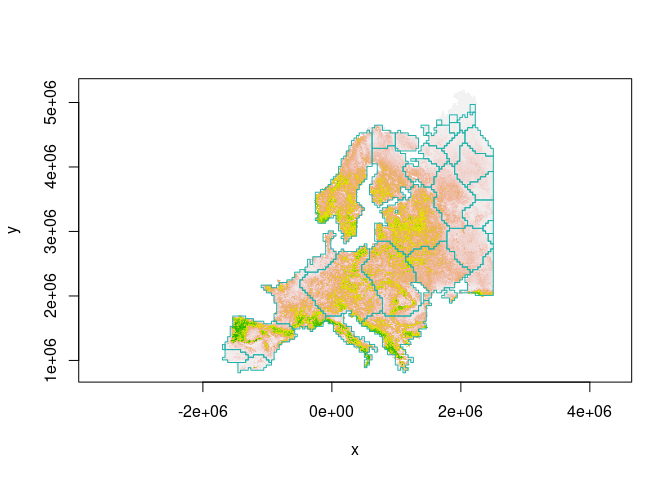
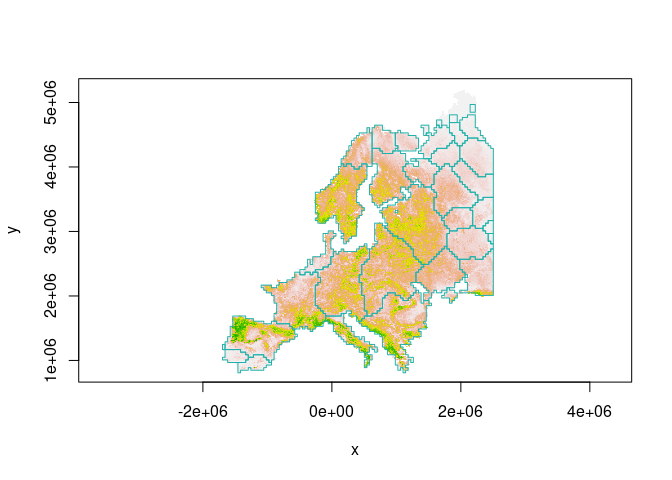
version 1.0.2

diff --git a/README.md b/README.md
@@ -29,7 +29,6 @@ lands:
 library(sf)
 library(raster)
 library(habCluster)
-library(dplyr)
 ```
 
 Read in habitat suitability index (HSI) data of wolf in Europe. The HSI
@@ -73,8 +72,8 @@ Or, we can discard small patches before plotting:
 
 ``` r
 image(wolf, col = terrain.colors(100,rev = T), asp = 1)
-boundary$area = st_area(boundary)%>%as.numeric
-boundary = boundary %>% filter(area > 40000*40000)
+boundary$area = as.numeric(st_area(boundary))
+boundary = boundary[boundary$area > 40000*40000,]
 plot( boundary$geometry, add=TRUE, asp=1, border = "lightseagreen")
 ```
 
@@ -97,5 +96,6 @@ clst = cluster(wolf, method = cluster_leiden, cellsize = 40000, rp = 0.02, silen
 
 ## How to Cite
 
-Zhang, C., Q. Dai\*, et al, (in review). Identifying Geographical
-Boundary among Intraspecific Units Using Community Detection Algorithm.
+Zhang,C., J. Li, B. Yang, Q. Dai\*. (2022). habCluster: Identifying
+Geographical Boundary among Intraspecific Units Using Community
+Detection Algorithm in R. bioRxiv 2022.05.06.490926.
